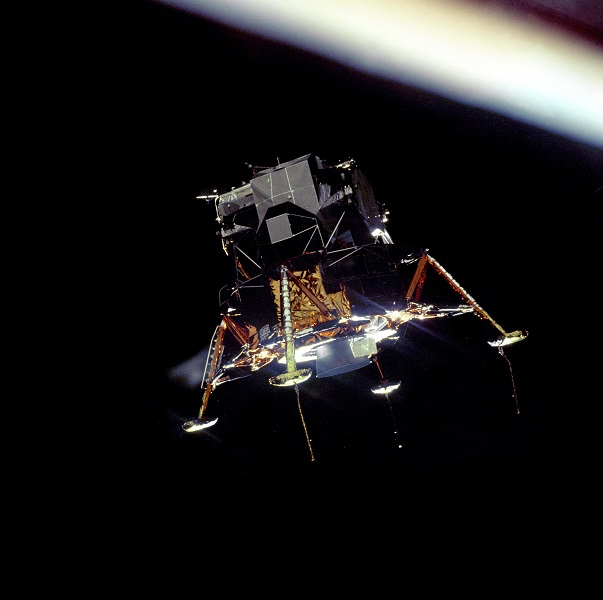
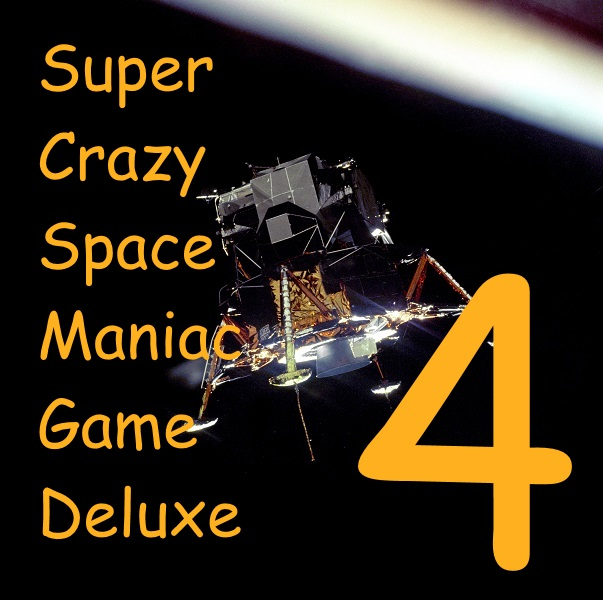
Code cleanup
Renamed some variables, changed global status of some others, fixed bug
which caused total system failure & complete hard drive deletion,
Element and Player class modifications, InputHandler implementation

diff --git a/client/src/mygame/Main.java b/client/src/mygame/Main.java
@@ -1,10 +1,10 @@
 package mygame;
 
-import SpaceEntities.Ship;
+import SpaceEntities.Player;
+import SpaceUtilities.InputHandler;
 import com.jme3.app.SimpleApplication;
 import com.jme3.asset.plugins.FileLocator;
 import com.jme3.input.KeyInput;
-import com.jme3.input.controls.AnalogListener;
 import com.jme3.input.controls.KeyTrigger;
 import com.jme3.light.DirectionalLight;
 import com.jme3.math.Vector3f;
@@ -12,11 +12,7 @@ import com.jme3.renderer.RenderManager;
 import com.jme3.scene.Spatial;
 import com.jme3.math.ColorRGBA;
 import com.jme3.system.AppSettings;
-//import javax.swing.Box;
 
-
-import com.jme3.input.MouseInput;
-import com.jme3.input.controls.MouseAxisTrigger;
 import com.jme3.post.FilterPostProcessor;
 import com.jme3.texture.Texture2D;
 import com.jme3.water.WaterFilter;
@@ -28,15 +24,13 @@ import com.jme3.water.WaterFilter;
  * Think about Collidable Interface
  */
 public class Main extends SimpleApplication {
-    Spatial ship;
-    Ship myShip;
+    Player player;
+    InputHandler inputHandler;
 
     private Spatial sceneTestTerrain;
     private WaterFilter water;
-    private Vector3f lightdir = new Vector3f (-4f,-1f,5f);
     
     // Velocity of ship [TEST]
-    private float SPEED = 32;
     private int CAMERA_MOVE_SPEED = 50;
     
     
@@ -45,8 +39,10 @@ public class Main extends SimpleApplication {
         
         // Title and image
         AppSettings settings = new AppSettings(true);
-        settings.setTitle("Space Game");
+        settings.setTitle("Super Crazy Space Maniac Game Deluxe 4"); //5 star name
         settings.setSettingsDialogImage("Interface/nave.jpg");
+        settings.setWidth(1280);
+        settings.setHeight(800);
         app.setSettings(settings);
         
         app.start();  
@@ -56,39 +52,31 @@ public class Main extends SimpleApplication {
     @Override
     public void simpleInitApp(){
         
-        initTestTerrain();  // Carga del Terreno de prueba
-        //initTestWater();    // Carga el agua para el terreno 
-                            //para desacticarla (Nacho o Walls por el rendimiento) 
-                            //solo ponganlo como comentario
-       
-
+        //Adding path to assetManager lookup table
         assetManager.registerLocator("assets/Models/Ships/", FileLocator.class);
+
+        initTestTerrain();  // Loads all terrain
+        //initTestWater();    // Loads water over terrain 
+
+        //Testing player class
+        // this should change to player = new Player(server.getPlayerID, server.getPlayerSpatial, assetManager);
+        player = new Player("Player1", "Wraith.obj", assetManager);
+        player.setPosition(new Vector3f(0,0,0));
+        player.setDirection(new Vector3f(0,0,0));
+        player.setSpeed(32f);
+        player.getSpatial().scale(0.01f);
+        player.attachToNode(rootNode);
         
-        //Testing ship class
-        myShip = new Ship("Wraith.obj", assetManager);
-        myShip.setPosition(new Vector3f(0,0,0));
-        myShip.setDirection(new Vector3f(0,0,0));
-        myShip.setSpeed(1.0f);
-        myShip.getSpatial().scale(0.01f);
-        myShip.attachToNode(rootNode);
+        inputHandler = new InputHandler(player); //Loads a new InputHandler instance with instanced player
         
-        setUpLight();
-        setCamera();
+        this.setUpLight();
+        this.setUpCamera(); //changed name to setUpCamera to match setUpLight syntax
                 
         this.initKeys();
         
     }
     
     private void initKeys(){
-        inputManager.addMapping("Pause", new KeyTrigger(KeyInput.KEY_P));
-        inputManager.addMapping("Up", new KeyTrigger(KeyInput.KEY_J));
-        inputManager.addMapping("Down", new KeyTrigger(KeyInput.KEY_K));
-        inputManager.addMapping("Left", new KeyTrigger(KeyInput.KEY_H));
-        inputManager.addMapping("Right", new KeyTrigger(KeyInput.KEY_L));
-        
-        inputManager.addMapping("MouseX", new MouseAxisTrigger(MouseInput.BUTTON_LEFT, true));
-        inputManager.addMapping("MouseY", new MouseAxisTrigger(MouseInput.AXIS_X, true));
-        
         // New keys, testing rotation
         inputManager.addMapping("INPUT_Forward", new KeyTrigger(KeyInput.KEY_W));
         inputManager.addMapping("INPUT_Backward", new KeyTrigger(KeyInput.KEY_S));
@@ -101,12 +89,11 @@ public class Main extends SimpleApplication {
         
         
         //Adding to action listener
-        inputManager.addListener(analogListener, "Up", "Down", "Left", "Right");
-        inputManager.addListener(analogListener,"INPUT_Forward", "INPUT_Backward","INPUT_Up","INPUT_Down",
+        inputManager.addListener(inputHandler,"INPUT_Forward", "INPUT_Backward","INPUT_Up","INPUT_Down",
                 "INPUT_Right","INPUT_Left","INPUT_RollLeft","INPUT_RollRight");
     }
       
-    //Light is needed to make the model visible
+    //Light is needed to make the models visible
     private void setUpLight(){
         
         DirectionalLight sun = new DirectionalLight();
@@ -121,77 +108,20 @@ public class Main extends SimpleApplication {
         rootNode.addLight(backupLights);
     }
     
-    private void setCamera(){
+    private void setUpCamera(){
         //flyCam.setEnabled(false);
         flyCam.setMoveSpeed(CAMERA_MOVE_SPEED);
         
-        cam.setLocation(myShip.getPosition().add(new Vector3f(0,10,-10)));
-        cam.lookAt(myShip.getPosition(), myShip.getPosition());
+        cam.setLocation(player.getPosition().add(new Vector3f(0,10,-10)));
+        cam.lookAt(player.getPosition(), player.getPosition());
     }
-    
-    private AnalogListener analogListener = new AnalogListener(){
-        // TODO: Combine SPEED with tpf
-        
-        public void onAnalog(String name, float value, float tpf){
-            if(name.equals("Up")){
-                myShip.setDirection(new Vector3f(0,1,0));
-            }
-            if(name.equals("Down")){
-                myShip.setDirection(new Vector3f(0,-1,0));
-            }
-            if(name.equals("Left")){
-                myShip.setDirection(new Vector3f(-1,0,0));
-            }
-            if(name.equals("Right")){
-                myShip.setDirection(new Vector3f(1,0,0));
-            }
-            if(name.equals("MouseX")){
-                //myShip.setAngle(new Quaternion(MouseInput.AXIS_X, MouseInput.AXIS_Y, 0,0));
-                //cam.setLocation((int)MouseInput.AXIS_X,(float)MouseInput.AXIS_Y,0);
-                //cam.setLocation(new Vector3f(MouseInput.AXIS_X, MouseInput.AXIS_Y,0));
-                // Modify myShip direction and position, camera is already set
-            }
-            if(name.equals("INPUT_Forward")){
-                //Vector3f mov = ship.getLocalRotation().getRotationColumn(2).normalize();
-                Vector3f mov = myShip.getLocalRotation().getRotationColumn(2).normalize();
-                myShip.setDirection(mov.mult(SPEED));
-            }
-            if(name.equals("INPUT_Backward")){
-                Vector3f mov = myShip.getLocalRotation().getRotationColumn(2).normalize();
-                myShip.setDirection(mov.mult(-SPEED));
-            }
-            if(name.equals("INPUT_Up")){
-                Vector3f mov = myShip.getLocalRotation().getRotationColumn(1).normalize();
-                myShip.setDirection(mov.mult(SPEED));
-            }
-            if(name.equals("INPUT_Down")){
-                Vector3f mov = myShip.getLocalRotation().getRotationColumn(1).normalize();
-                myShip.setDirection(mov.mult(-SPEED));
-            }
-            if(name.equals("INPUT_Right")){
-                Vector3f mov = myShip.getLocalRotation().getRotationColumn(0).normalize();
-                myShip.setDirection(mov.mult(-SPEED));
-            }
-            if(name.equals("INPUT_Left")){
-                Vector3f mov = myShip.getLocalRotation().getRotationColumn(0).normalize();
-                myShip.setDirection(mov.mult(SPEED));
-            }
-            if(name.equals("INPUT_RollLeft")){
-                //TODO 
-            }
-            if(name.equals("INPUT_RollRight")){
-                //TODO
-            }
-        }
-    };
 
     @Override
     public void simpleUpdate(float tpf) {
-        myShip.update(tpf);
-        
+        player.update(tpf);
         // Camera. Set location and direction
-        cam.setLocation(myShip.getPosition().add(new Vector3f(0,10,-20)));
-        cam.lookAt(myShip.getPosition(), Vector3f.UNIT_Y);
+        cam.setLocation(player.getPosition().add(new Vector3f(0,10,-20)));
+        cam.lookAt(player.getPosition(), Vector3f.UNIT_Y);
         cam.update();
 
     }
@@ -206,8 +136,10 @@ public class Main extends SimpleApplication {
         rootNode.attachChild(sceneTestTerrain);
     }
     
-    public void initTestWater(){ 
+    public void initTestWater(){
+        Vector3f lightdir = new Vector3f (-4f,-1f,5f);
         FilterPostProcessor fpp = new FilterPostProcessor(assetManager); 
+        
         water = new WaterFilter(rootNode, lightdir); 
         water.setCenter(Vector3f.ZERO); 
         water.setRadius(2600); 

diff --git a/client/src/SpaceUtilities/InputHandler.java b/client/src/SpaceUtilities/InputHandler.java
@@ -1,0 +1,55 @@
+package SpaceUtilities;
+
+import SpaceEntities.Player;
+import com.jme3.input.controls.AnalogListener;
+import com.jme3.math.Vector3f;
+
+/**
+ *
+ * @author Alex
+ * 
+ * This will send the input pressed by the client to the server, including a client ID
+ */
+public class InputHandler implements AnalogListener{
+    Player thisPlayer;
+    
+    public InputHandler(Player player){
+        thisPlayer = player;
+    }
+    
+    //The commands here should change to something similar to server.sendKey(String playerID, String keyPressed);
+    @Override
+    public void onAnalog(String name, float value, float tpf){
+        if(name.equals("INPUT_Forward")){
+            //Vector3f mov = ship.getLocalRotation().getRotationColumn(2).normalize();
+            Vector3f mov = thisPlayer.getLocalRotation().getRotationColumn(2).normalize();
+            thisPlayer.setDirection(mov.mult(thisPlayer.getSpeed()));
+        }
+        if(name.equals("INPUT_Backward")){
+            Vector3f mov = thisPlayer.getLocalRotation().getRotationColumn(2).normalize();
+            thisPlayer.setDirection(mov.mult(-thisPlayer.getSpeed()));
+        }
+        if(name.equals("INPUT_Up")){
+            Vector3f mov = thisPlayer.getLocalRotation().getRotationColumn(1).normalize();
+            thisPlayer.setDirection(mov.mult(thisPlayer.getSpeed()));
+        }
+        if(name.equals("INPUT_Down")){
+            Vector3f mov = thisPlayer.getLocalRotation().getRotationColumn(1).normalize();
+            thisPlayer.setDirection(mov.mult(-thisPlayer.getSpeed()));
+        }
+        if(name.equals("INPUT_Right")){
+            Vector3f mov = thisPlayer.getLocalRotation().getRotationColumn(0).normalize();
+            thisPlayer.setDirection(mov.mult(-thisPlayer.getSpeed()));
+        }
+        if(name.equals("INPUT_Left")){
+            Vector3f mov = thisPlayer.getLocalRotation().getRotationColumn(0).normalize();
+            thisPlayer.setDirection(mov.mult(thisPlayer.getSpeed()));
+        }
+        if(name.equals("INPUT_RollLeft")){
+            //TODO 
+        }
+        if(name.equals("INPUT_RollRight")){
+            //TODO
+        }
+    }
+}

diff --git a/client/src/SpaceEntities/Player.java b/client/src/SpaceEntities/Player.java
@@ -1,7 +1,3 @@
-/*
- * To change this template, choose Tools | Templates
- * and open the template in the editor.
- */
 package SpaceEntities;
 
 import com.jme3.asset.AssetManager;
@@ -12,6 +8,7 @@ import com.jme3.asset.AssetManager;
  */
 public class Player extends Ship{
     public final String PLAYER_ID;
+    private float speed;
     
     //Player states
     public boolean isAlive;
@@ -19,7 +16,16 @@ public class Player extends Ship{
     public Player(String id, String model, AssetManager am){
         super(model, am);
         this.PLAYER_ID = id;
+        isAlive = true;
     }
+    
+    public void setSpeed(float speed){
+        this.speed = speed;
+    }
+    public float getSpeed(){
+        return speed;
+    }
+    
     
     
     

diff --git a/client/src/SpaceEntities/Element.java b/client/src/SpaceEntities/Element.java
@@ -23,7 +23,6 @@ public abstract class Element implements Collidable{
     protected Material mat;
     protected Vector3f position;
     protected Vector3f direction;
-    protected float speed;    //speed should be a float value from 0 - 1
     protected Node currentNode;
     
     //Direction get and set
@@ -40,14 +39,6 @@ public abstract class Element implements Collidable{
     }
     public void setPosition(Vector3f position){
         this.position = position;
-    }
-    
-    //Speed get and set
-    public float getSpeed(){
-        return speed;
-    }
-    public void setSpeed(float speed){
-        this.speed = Math.min(1, speed);
     }
     
     //Spatial get and set

diff --git a/client/src/SpaceEntities/Missile.java b/client/src/SpaceEntities/Missile.java
@@ -1,7 +1,3 @@
-/*
- * To change this template, choose Tools | Templates
- * and open the template in the editor.
- */
 package SpaceEntities;
 
 import com.jme3.math.Vector3f;
@@ -11,8 +7,8 @@ import com.jme3.math.Vector3f;
  * @author Alex
  */
 public class Missile extends Element{
-    
-    public Missile(Vector3f position, Vector3f direction, int initialSpeed){
+    float speed;
+    public Missile(Vector3f position, Vector3f direction, float initialSpeed){
         this.position = position;
         this.direction = direction;
         this.speed = initialSpeed;
